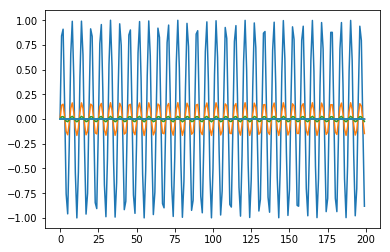
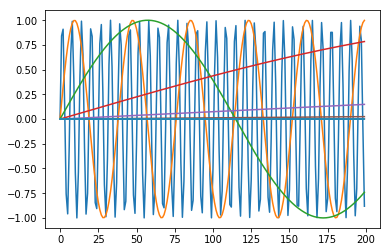
fixed positional encoding plots

diff --git a/build/build.py b/build/build.py
@@ -34,7 +34,7 @@ class ImageSearchV2(PostConfig):
     tags = ['image search', 'autoencoders', 'keras', 'CNN',
             'Convolutional Neural Networks', 'CIFAR']
     github_repo = 'image-search'
-    rebuild = False  # if this gets rebuilt the staticc files included
+    rebuild = False  # if this gets rebuilt the static files included
                      # will be messed up
 
 
@@ -52,6 +52,8 @@ class AnOverviewOfAttentionIsAllYouNeed(PostConfig):
     filename = 'attention-is-all-you-need-overview/An overview of Attention Is All You Need.ipynb'
     tags = ['attention is all you need', 'attention', 'keras', 'NLP']
     github_repo = 'attention-is-all-you-need'
+    rebuild = False  # if this gets rebuilt the static files included
+                     # will be messed up
 
 
 class KnowYourTrees(PostConfig):

diff --git a/_posts/2018-07-06-an-overview-of-attention-is-all-you-need.md b/_posts/2018-07-06-an-overview-of-attention-is-all-you-need.md
@@ -4,7 +4,7 @@ mathjax: true
 title: An Overview of Attention Is All You Need
 github: https://github.com/dantegates/attention-is-all-you-need
 creation_date: 2018-07-06
-last_modified: 2018-07-11 16:35:43
+last_modified: 2018-11-27 13:15:27
 tags: 
   - attention is all you need
   - attention
@@ -73,8 +73,7 @@ Caveat: The Transformer makes use of many ideas that could be covered in an enti
 
 As mentioned above the transformer follows the encoder/decoder pattern. This is explained best with the following picture from the paper.
 
-
-<img src="{{ "/assets/an-overview-of-attention-is-all-you-need/transformer-architecture.png" | asbolute_url }}" alt="drawing" width="400px"/>
+<img src="/assets/an-overview-of-attention-is-all-you-need/transformer-architecture.png" alt="drawing" width="400px"/>
 
 Here the left side is the encoder and the right side is the decoder. In the case of translation the input to the encoder is the sentence to translate (technically the sentence converted to a sequence of word vectors) and the input to the decoder is the target sentence (shifted right by one token, this is covered more in the section on Masking).
 
@@ -112,9 +111,9 @@ import numpy as np
 X = np.ones((200, 512))
 d_model = 512
 rows, cols = np.indices(X.shape)
-numerator = np.where(cols % 2, np.cos(rows), np.sin(rows))
-denominator = (10_000**((2*cols)/d_model))
-encodings = numerator / denominator
+numerator = rows
+denominator = 10_000**((2*cols)/d_model)
+encodings = np.where(cols % 2, np.cos(numerator / denominator), np.sin(numerator / denominator))
 # sinusoids along each dimmension of the encoding
 for encoding in encodings.T[::50]:
     plt.plot(encoding)
@@ -147,9 +146,10 @@ def positional_encoding(inputs):
     d_model_int = K.int_shape(inputs)[2]
     rows, cols = indices(sequence_dim, d_model_var)
     rows, cols = K.cast(rows, dtype=K.floatx()), K.cast(cols, dtype=K.floatx())
-    numerator = K.switch(cols % 2, K.cos(rows), K.sin(rows))
+    numerator = rows
     denominator = 10_000**((2*cols)/d_model_int)
-    return inputs + (numerator / denominator)
+    encodings = K.switch(cols % 2, K.cos(numerator / denominator), K.sin(numerator / denominator))    
+    return inputs + encodings
 
 input_ = Input((None, 512))
 PositionalEncoding = Lambda(positional_encoding, output_shape=lambda x: x)
@@ -159,11 +159,8 @@ for encoding in encodings.T[::50]:
     plt.plot(encoding)
 ```
 
-    Using TensorFlow backend.
 
-
-
-![png]({{ "/assets/an-overview-of-attention-is-all-you-need/output_15_1.png" | asbolute_url }})
+![png]({{ "/assets/an-overview-of-attention-is-all-you-need/output_15_0.png" | asbolute_url }})
 
 
 # Attention
